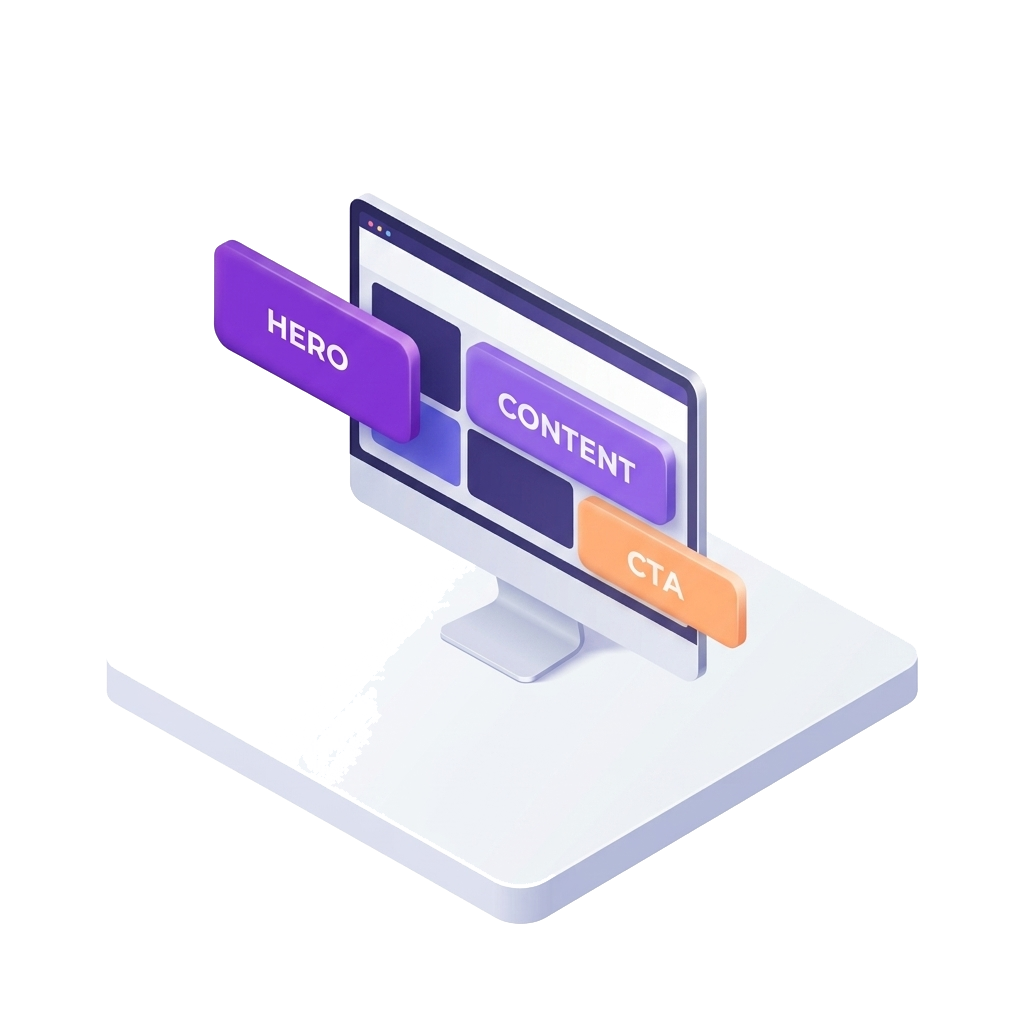
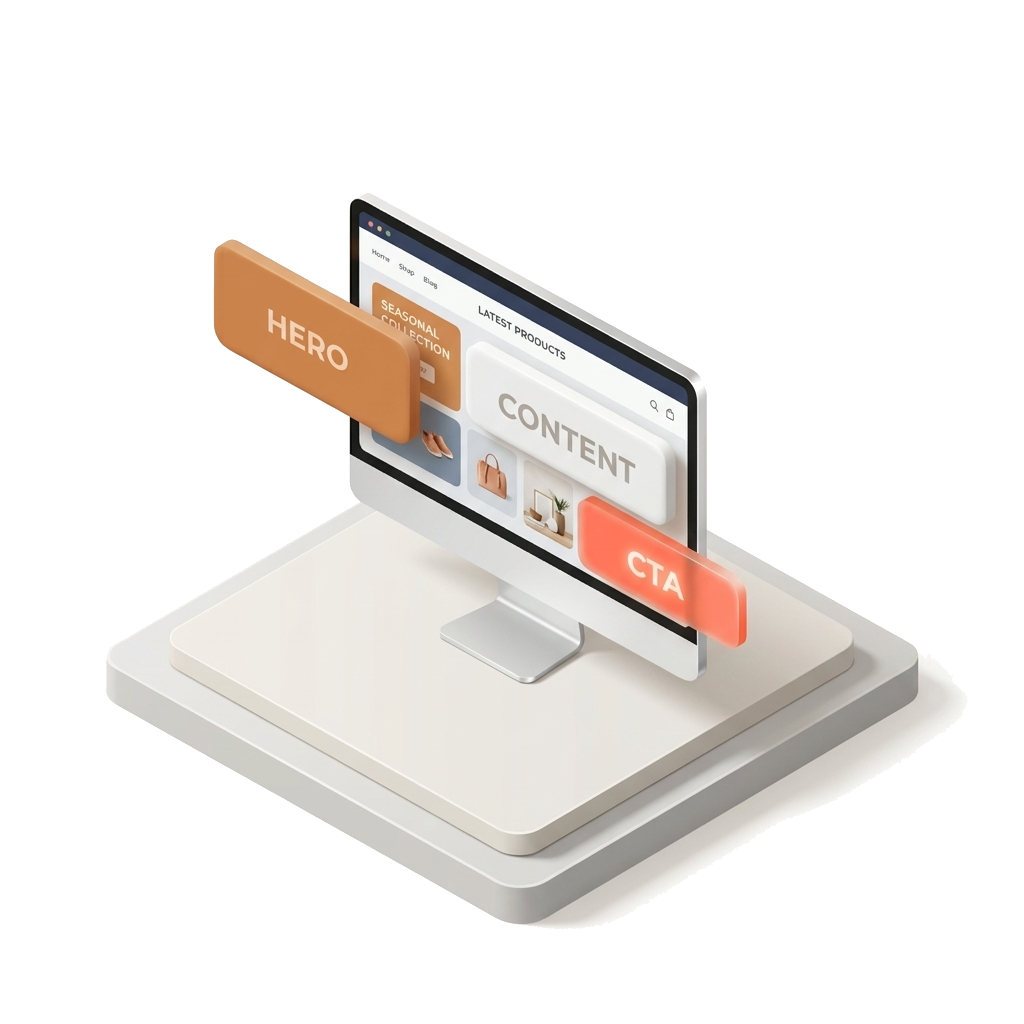
style(illustrations): replace artificial monochrome tints with natural realistic studio color palette

Changed region(s): [[0.0938, 0.1875, 0.9375, 0.9062]]

diff --git a/viewer.html b/viewer.html
@@ -580,7 +580,7 @@
     <script src="assets/vctrl_responsive_pins.js?v=V352_PASTE_POINTER_LOCK_FIX"></script>
     <script src="assets/vctrl_grouping.js?v=V352_PASTE_POINTER_LOCK_FIX"></script>
     <script src="assets/vctrl_color_picker.js?v=V352_PASTE_POINTER_LOCK_FIX"></script>
-    <script src="assets/vctrl_component_library.js?v=V355_MINIMAL_3D_AND_VECTOR_ILLUSTRATIONS"></script>
+    <script src="assets/vctrl_component_library.js?v=V356_NATURAL_COLOR_3D_ILLUSTRATIONS"></script>
     <script src="assets/vctrl_inspector.js?v=V352_PASTE_POINTER_LOCK_FIX"></script>
     <script src="assets/vctrl_screen_manager.js?v=V352_PASTE_POINTER_LOCK_FIX"></script>
     <script src="assets/vctrl_annotation_pins.js?v=V352_PASTE_POINTER_LOCK_FIX"></script>
